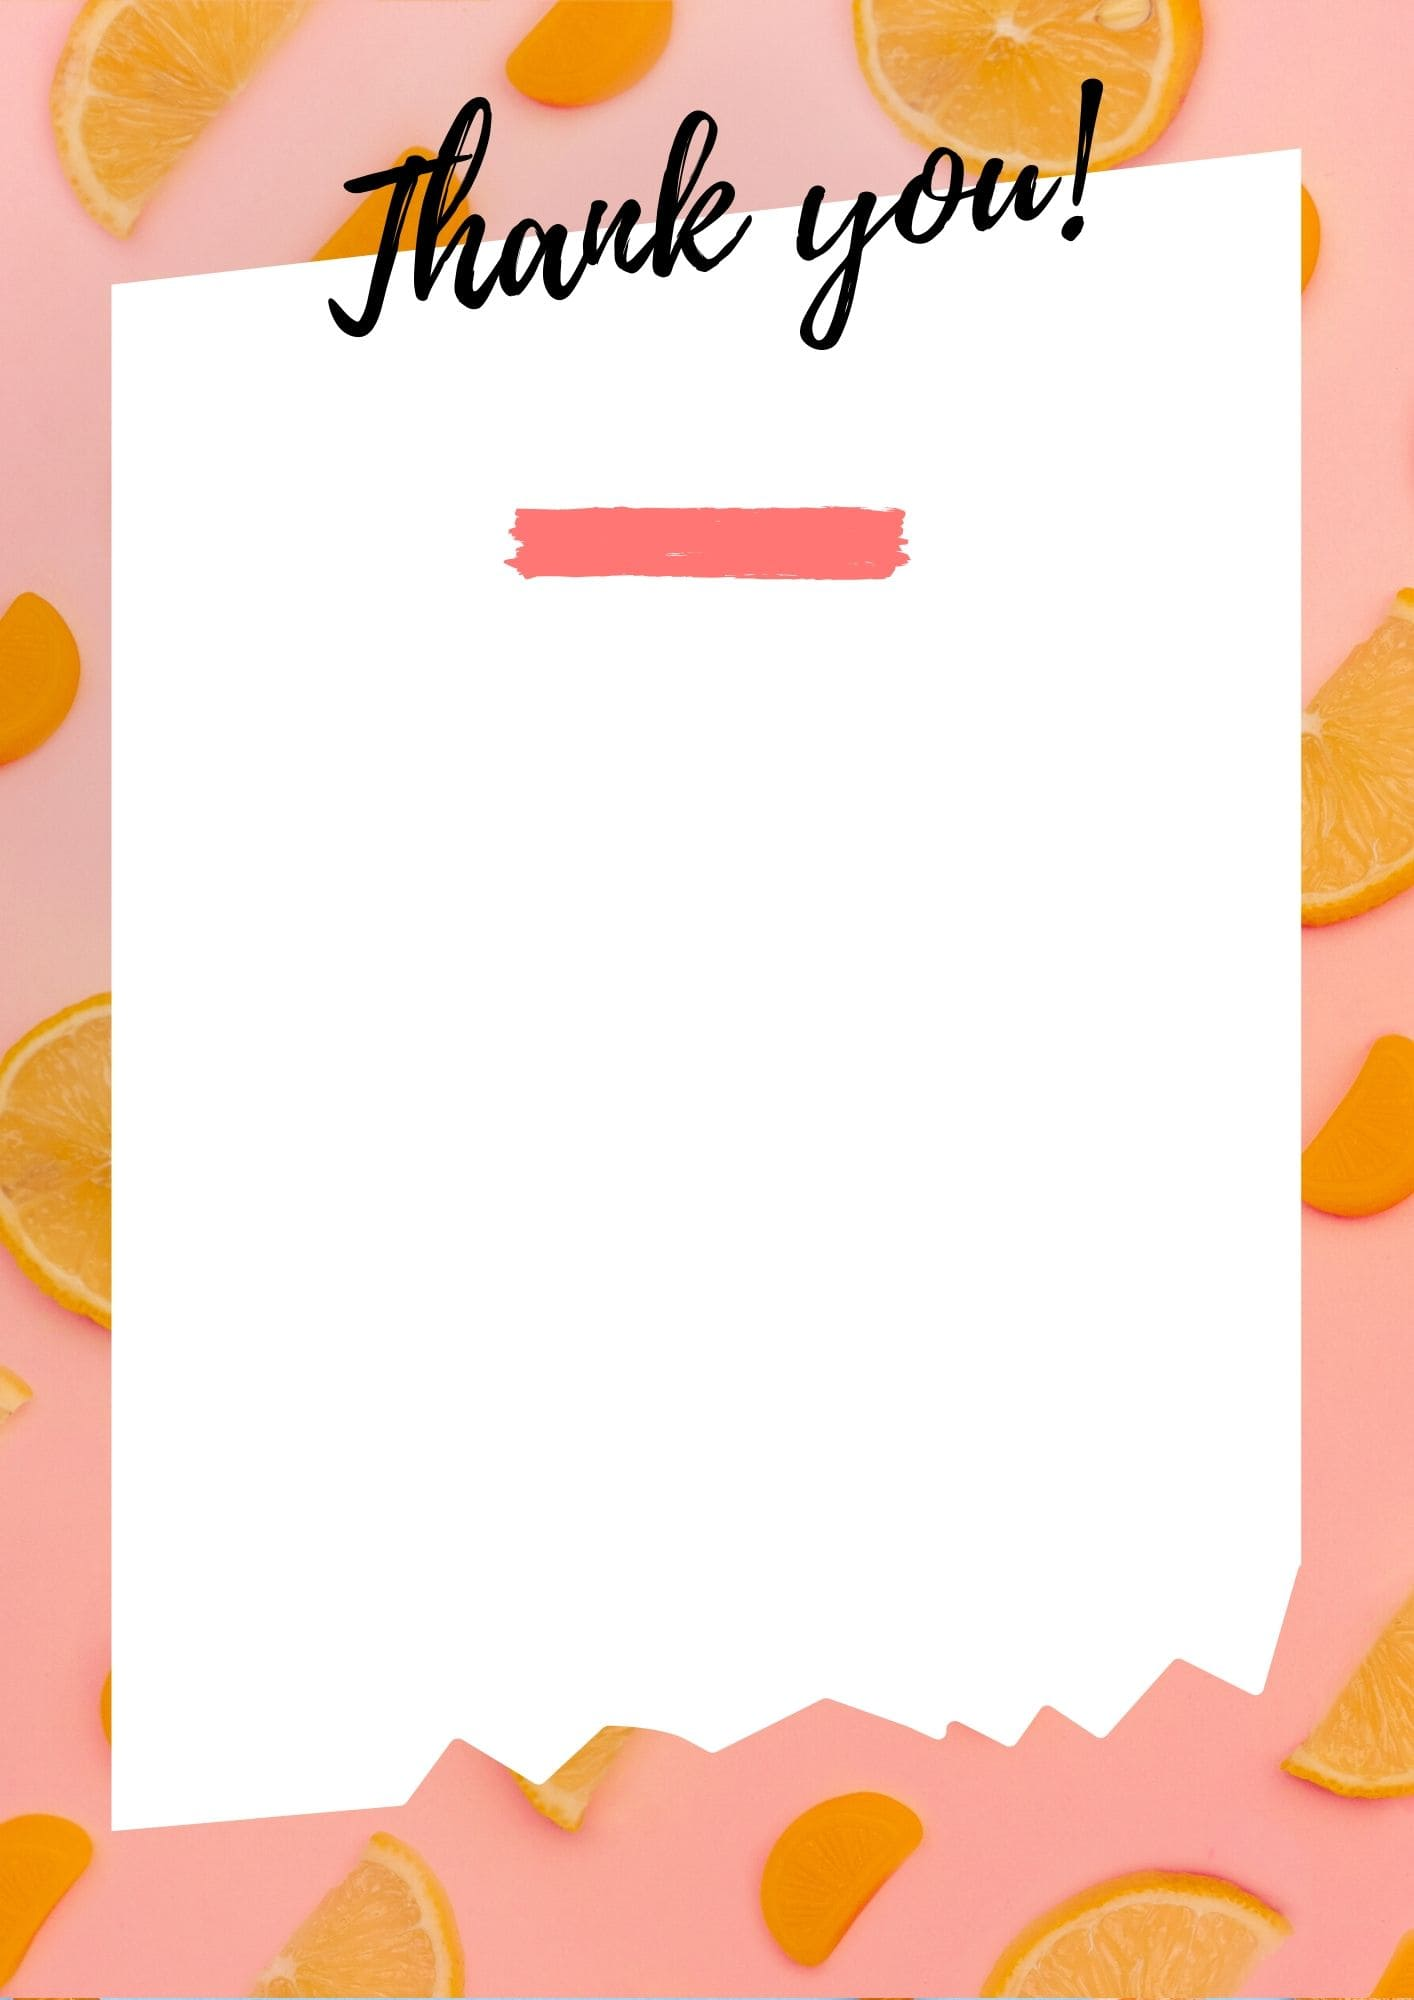
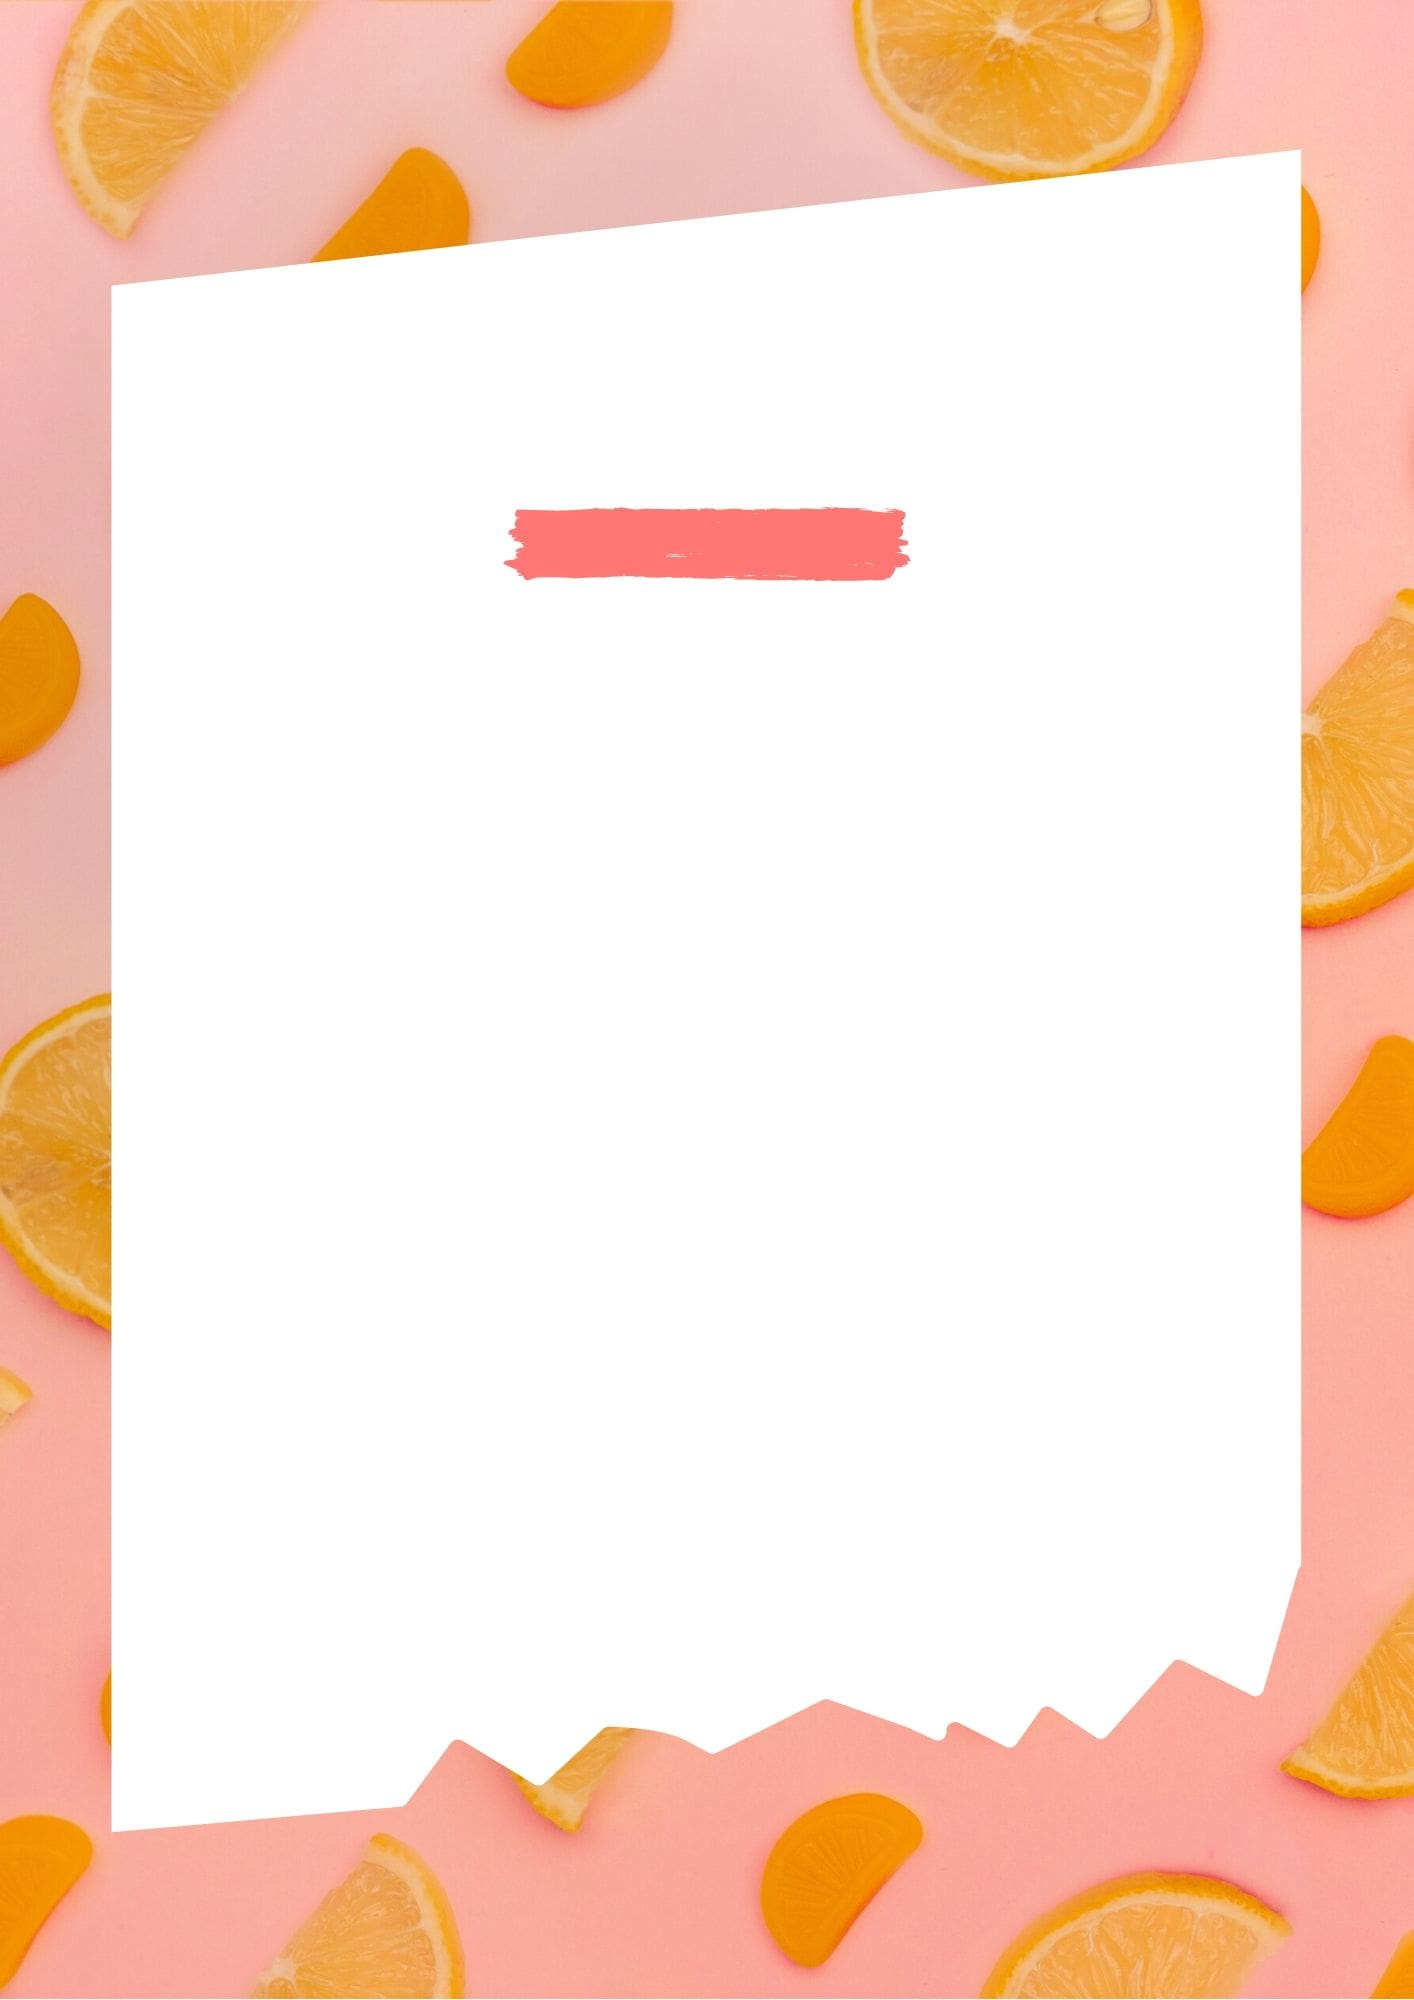
desktop changes updated

Changed region(s): [[0.0, 0.992, 1.0, 1.0], [0.2178, 0.031, 0.529, 0.186], [0.5601, 0.031, 0.7779, 0.186]]

diff --git a/index.html b/index.html
@@ -33,10 +33,10 @@
       <div style="background-image:url(2.jpg);background-repeat:no-repeat;background-size:100% 100%; padding:15px;margin-bottom:15px;">
           <table>
             <tr>
-              <td style="padding:60px 0"></td>
+              <td style="padding:25px 0 0;text-align:center;font-size:70px;color:#000;font-family: 'Playlist';transform: rotate(-10deg);-webkit-transform: rotate(-10deg);-moz-transform: rotate(-10deg);-ms-transform: rotate(-10deg);-o-transform: rotate(-10deg);">Thank You</td>
             </tr>
             <tr>
-              <td style="padding:10px 50px;text-align:center;font-size:18px;color:#ff7674;font-family: 'Antonio Bold';">for signing up to the newsletter - you’re officially part of the nutribust family. </td>
+              <td style="padding:5px 50px;text-align:center;font-size:18px;color:#ff7674;font-family: 'Antonio Bold';">for signing up to the newsletter - you’re officially part of the nutribust family. </td>
             </tr>
             <tr>
               <td style="padding:10px 40px;text-align:center;font-size:22px;color:#000;font-family: 'Playlist';">Here's a juicy</td>
